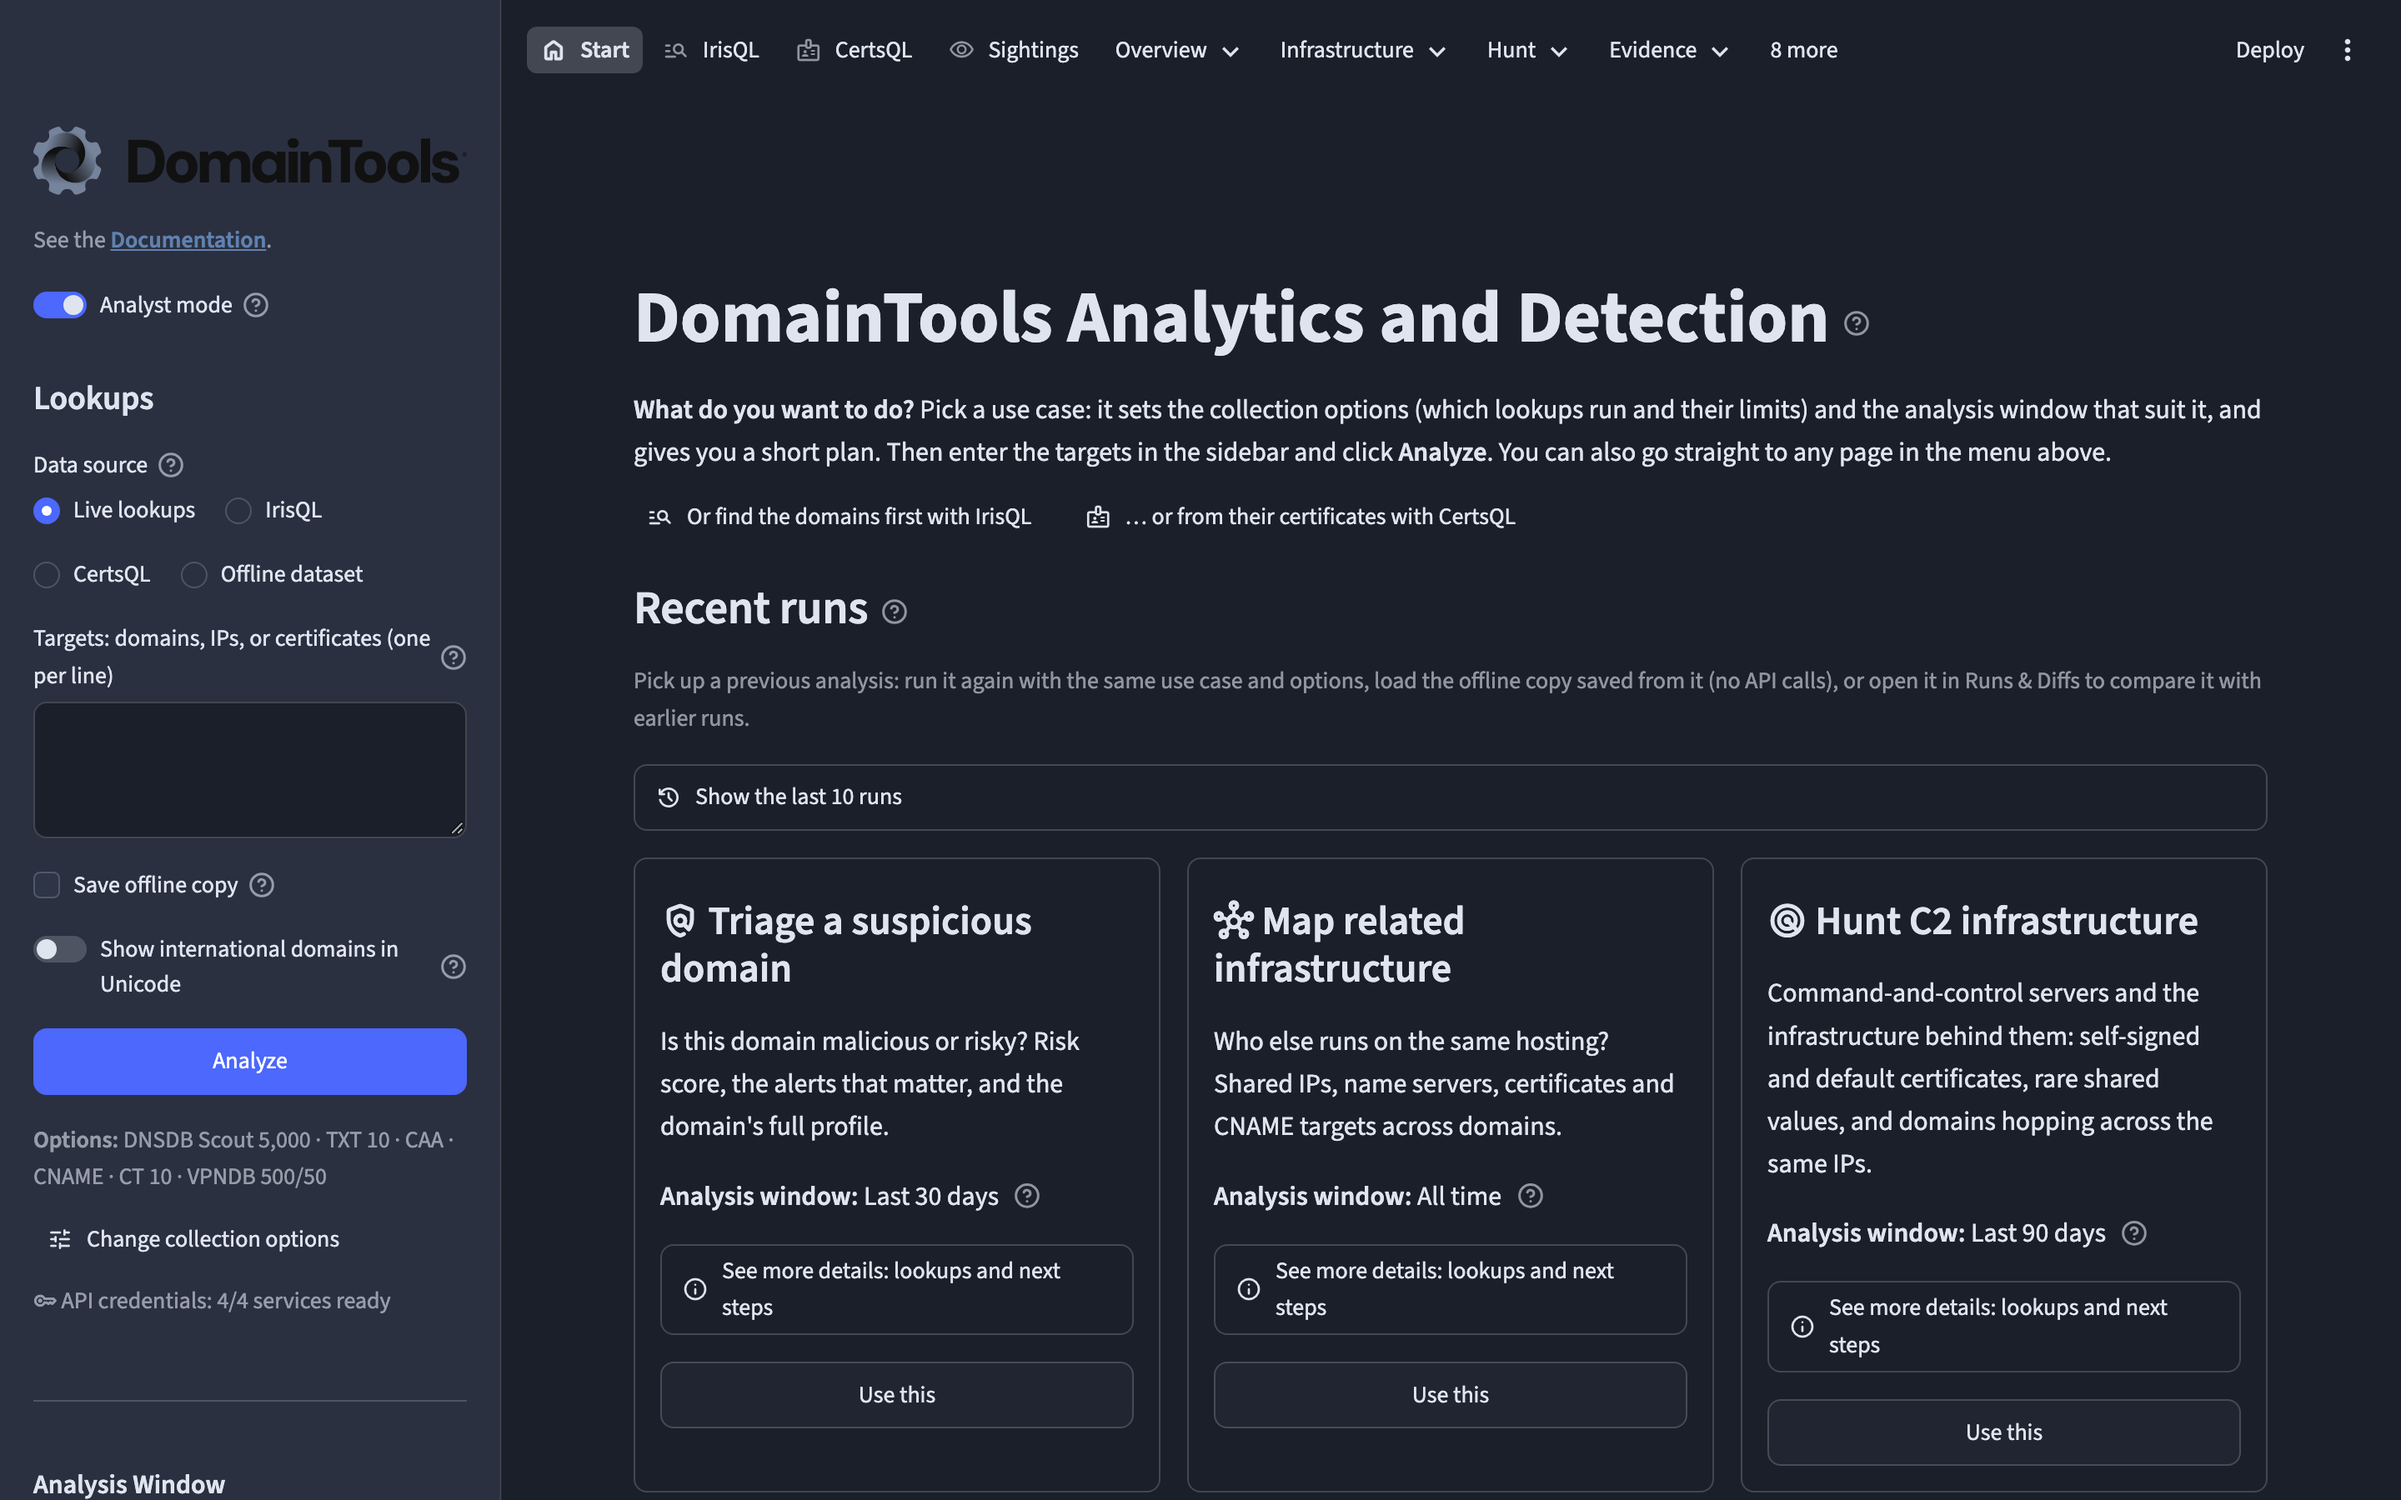
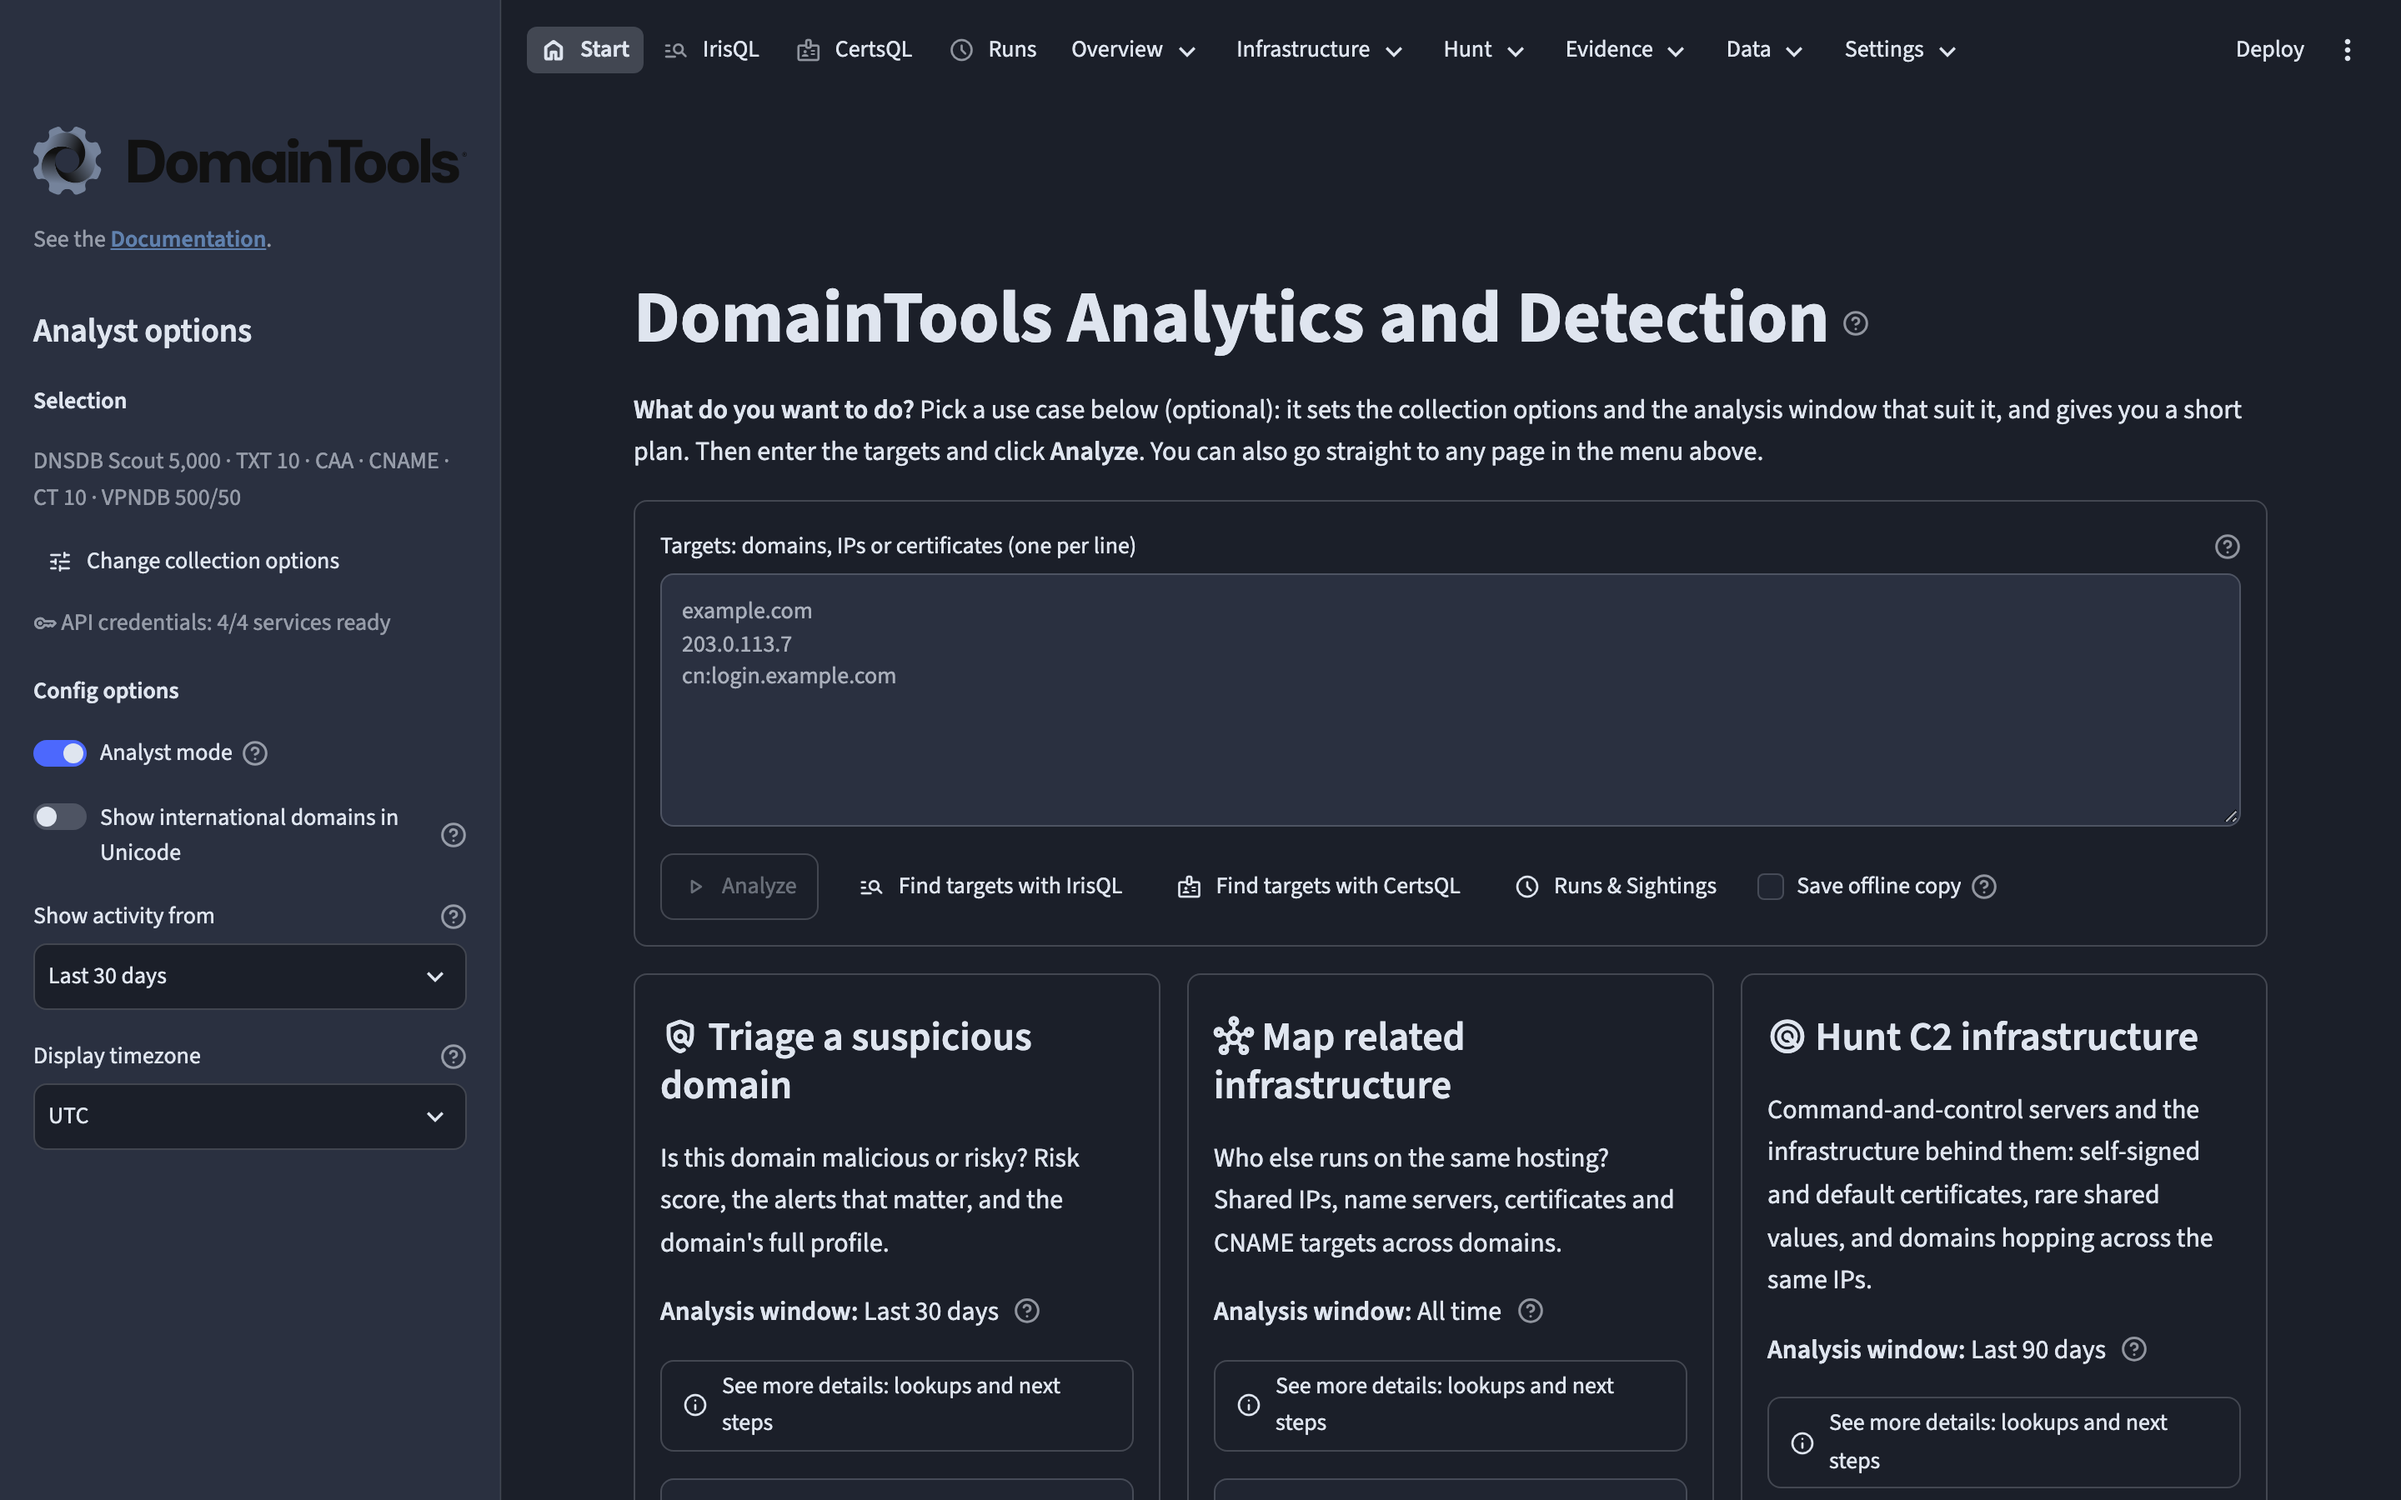
Update

diff --git a/README.md b/README.md
@@ -7,8 +7,9 @@ threat engine over the combined telemetry.
 
 ![Start page: pick a use case, enter targets in the Targets box and click Analyze](docs/images/start-page.png)
 
-*The Start page: choose a use case (it sets the lookups, limits and analysis window), enter domains, IPs or
-certificates in the Targets box and click **Analyze**. The last run links to the Runs page.*
+*The Start page: enter domains, IPs or certificates in the Targets box and click **Analyze**, or first pick a use
+case (it sets the lookups, limits and analysis window). Next to Analyze: find targets with IrisQL or CertsQL, open
+Runs & Sightings, and tick *Save offline copy*. The sidebar holds the Analyst options.*
 
 ## Documentation
 
